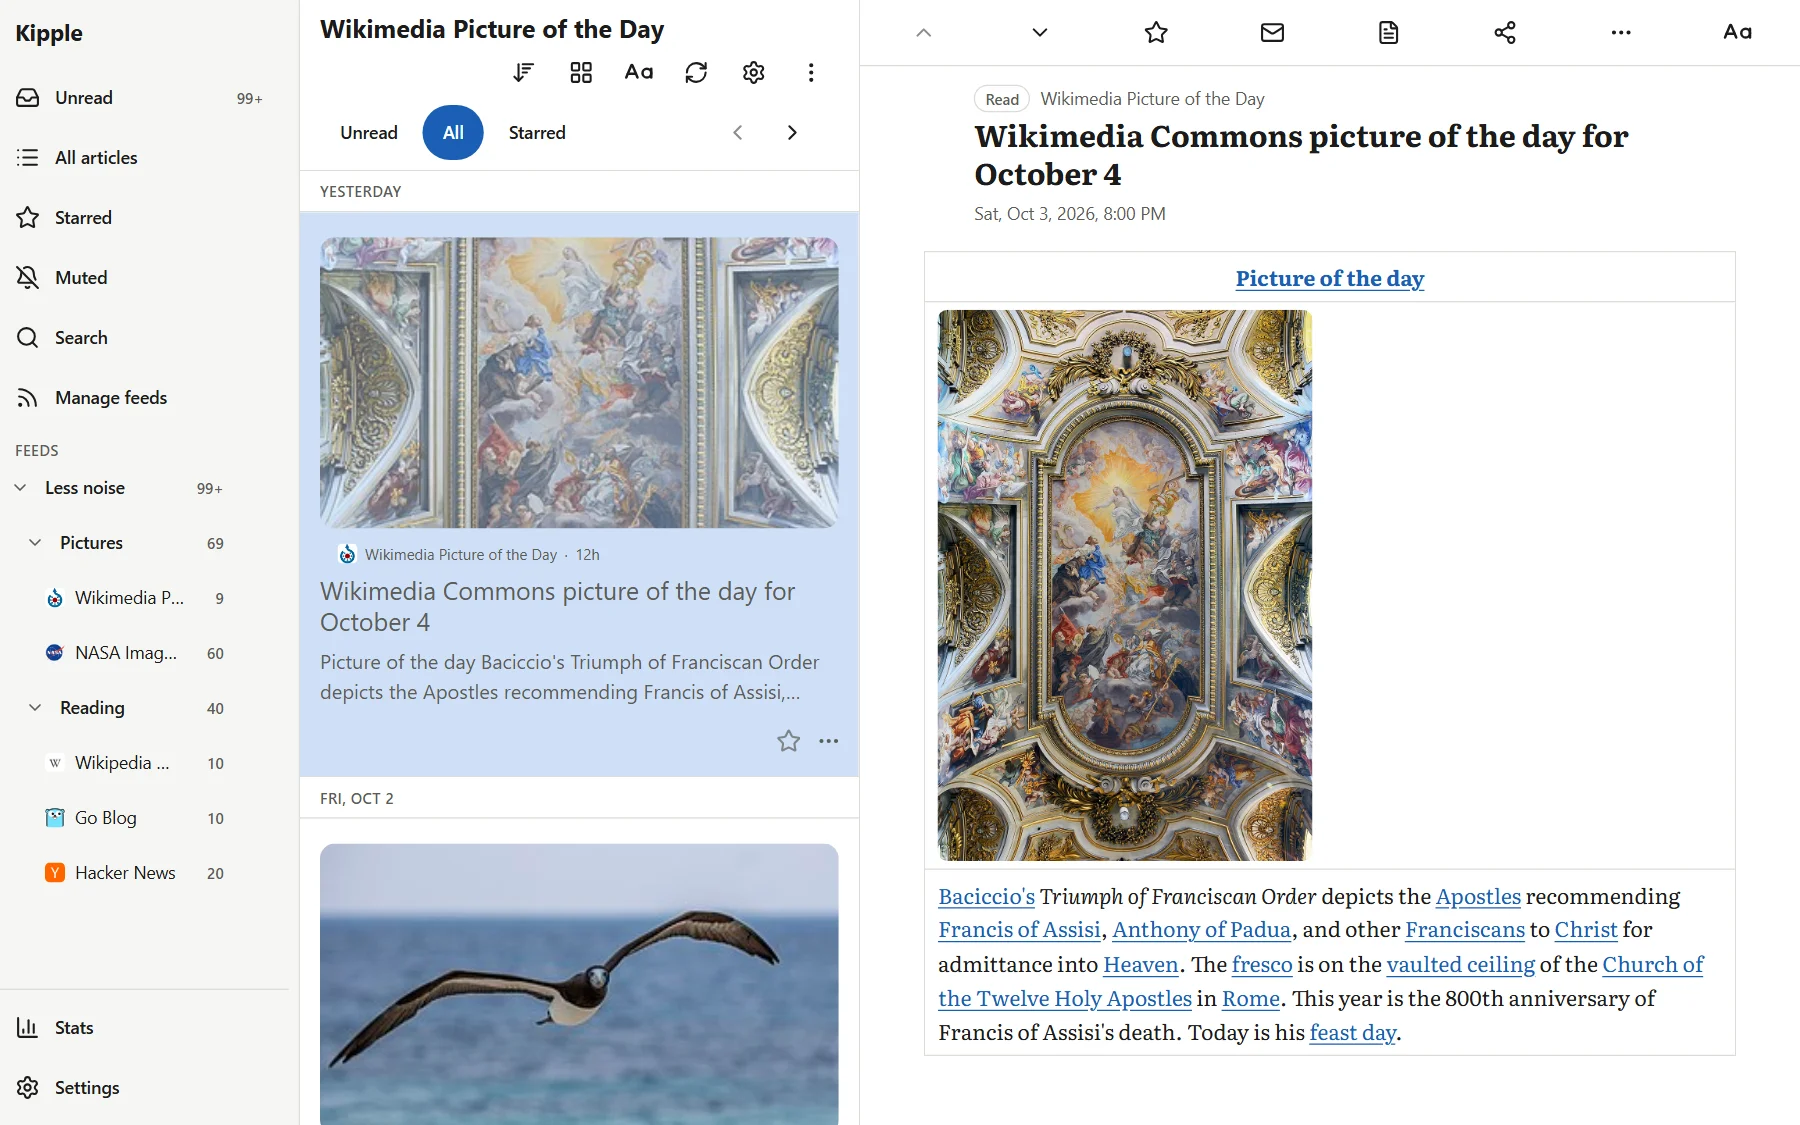
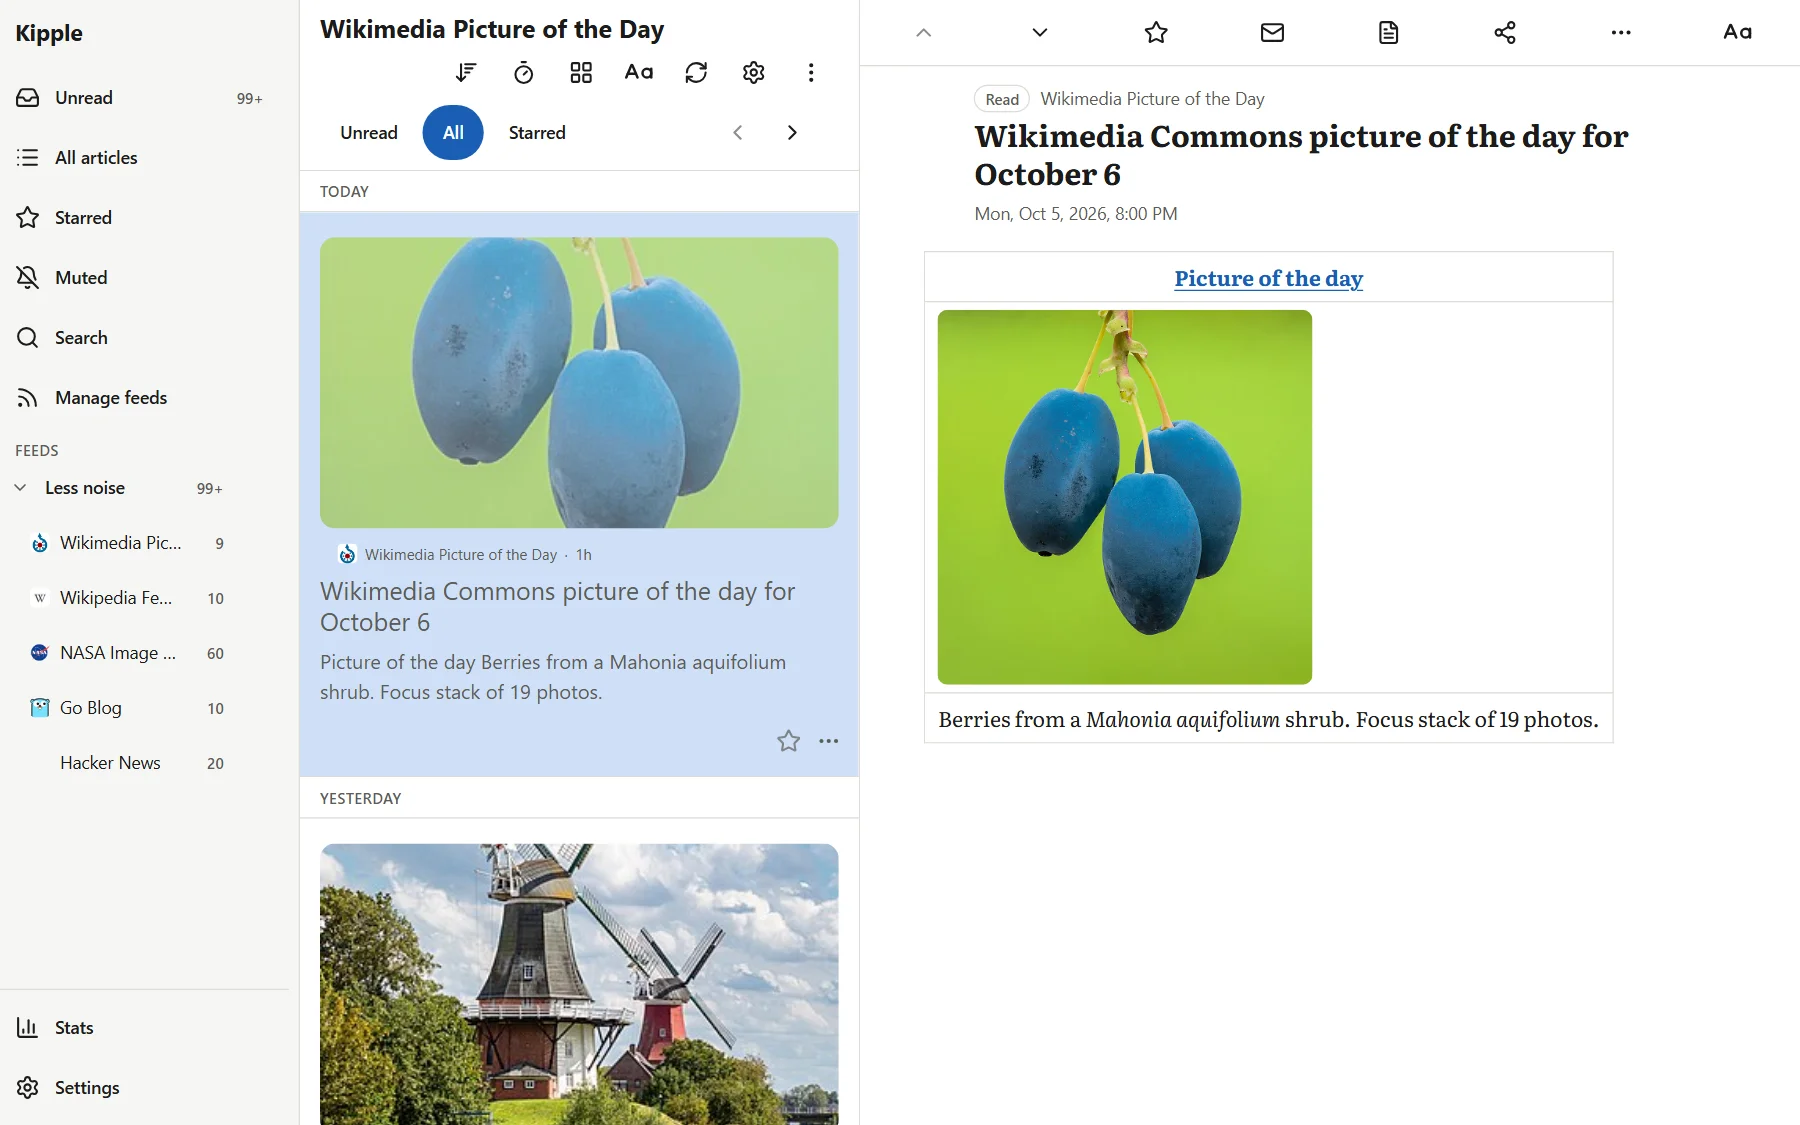
docs: Kipple 0.8.0-beta.3 version text, install tags and screenshots (#11)

diff --git a/index.html b/index.html
@@ -157,11 +157,11 @@
         <p>Kipple is a signed Docker image for linux/amd64 and linux/arm64. There are no config files to edit. It asks for what it needs in your browser the first time you open it.</p>
       </div>
       <div>
-<pre><code>docker run -d --name kipple --restart unless-stopped -p 127.0.0.1:1919:1919 -v kipple_data:/data --read-only --tmpfs /tmp:size=64m,mode=1777 --cap-drop ALL --security-opt no-new-privileges ghcr.io/wptk/kipple:0.8.0-beta.1</code></pre>
+<pre><code>docker run -d --name kipple --restart unless-stopped -p 127.0.0.1:1919:1919 -v kipple_data:/data --read-only --tmpfs /tmp:size=64m,mode=1777 --cap-drop ALL --security-opt no-new-privileges ghcr.io/wptk/kipple:0.8.0-beta.3</code></pre>
         <p class="after-code">Or the same thing as a compose file. Save it as <code>docker-compose.yml</code> and run <code>docker compose up -d</code>.</p>
 <pre><code>services:
   kipple:
-    image: ghcr.io/wptk/kipple:0.8.0-beta.1
+    image: ghcr.io/wptk/kipple:0.8.0-beta.3
     container_name: kipple
     restart: unless-stopped
     ports: ["127.0.0.1:1919:1919"]
@@ -204,7 +204,7 @@ volumes:
   <section class="sect">
     <div class="wrap">
       <h2>Where it stands</h2>
-      <p class="status"><span class="mono">v0.8.0-beta.1</span> is the current build. A new install opens on a form that creates your account, and Kipple is also published as a signed Docker image. Fetching, sync, the reading UI, nested folders, the installable offline-capable app, and reading stats with a yearly Wrapped all run daily. Testing before 1.0 is under way. The diary, decisions and dead ends from building it are in <a href="https://github.com/WPTK/kipple-history">kipple-history</a>.</p>
+      <p class="status"><span class="mono">v0.8.0-beta.3</span> is the current build. A new install opens on a form that creates your account, and Kipple is also published as a signed Docker image. Fetching, sync, the reading UI, nested folders, the installable offline-capable app, and reading stats with a yearly Wrapped all run daily. Testing before 1.0 is under way. The diary, decisions and dead ends from building it are in <a href="https://github.com/WPTK/kipple-history">kipple-history</a>.</p>
     </div>
   </section>
 </main>

diff --git a/design-system/DESIGN-SYSTEM.md b/design-system/DESIGN-SYSTEM.md
@@ -263,11 +263,11 @@ for reduced motion. No other animation.
 - `screenshots/`: four WebP files listed in the Screenshots component, plus three wizard shots (`wizard-account.webp` 864 x 1289, `wizard-timezone.webp` 864 x 1113, `wizard-theme.webp` 864 x 1344) shown in the First run section as `.shot-row.steps` (three equal columns, one column at or below 832px). The wizard shots were taken on 2026-10-03 at app commit `28768e2` (`v0.7.0-beta.1`) from a throwaway instance started with `KIPPLE_SEED_SET=fresh npm run seed`, in a 1000px wide viewport at 1.5x with the Paper scheme, each cropped to the 576px wide wizard column and as tall as its content (steps 1 to 3 of 6). Captured from a throwaway instance of the app
   by the app repo's `web/scripts/site-shots.mjs` (run at every release, `docs/RELEASING.md` step 12), after
   `KIPPLE_SEED_SET=site npm run seed`, which seeds Wikimedia Picture of the Day, Wikipedia Featured Article, NASA
-  Image of the Day, Go Blog and Hacker News in a folder named "Less noise". Last captured 2026-10-04 at app commit
-  `v0.8.0-beta.1`, after nesting two folders ("Pictures" and "Reading") under "Less noise" through the API so the sidebar shows a tree. Desktop: a 1440 x 900 viewport at 1.25x, giving 1800 x 1125 directly. Phone: 390 x 844
+  Image of the Day, Go Blog and Hacker News in a folder named "Less noise". Last captured 2026-10-05 at app commit
+  `v0.8.0-beta.3` (`2896ded`), straight from the seed with no extra folders, so the sidebar shows the single "Less noise" folder. Desktop: a 1440 x 900 viewport at 1.25x, giving 1800 x 1125 directly. Phone: 390 x 844
   at 1.5x, giving 585 x 1266. The list uses the device's default layout (Editorial). Light is the app's Paper scheme.
   Dark is the app following a dark system setting, which gives Midnight. Article shown: the Wikimedia Commons picture
-  of the day for September 29 (the ceiling painting in the Vatican Museums). The WebP files are encoded by the browser
+  of the day for October 6 (blue berries of a Mahonia aquifolium shrub). The WebP files are encoded by the browser
   at quality 0.85. `og.png` is re-rendered by the same script from `design-system/social-preview.html`.
 - The hero sample panel (unread count 420) is HTML and CSS, not a screenshot.
 - Favicon: `favicon.svg`, `favicon.ico` (16, 32 and 48 px), `apple-touch-icon.png` (180 x 180).
